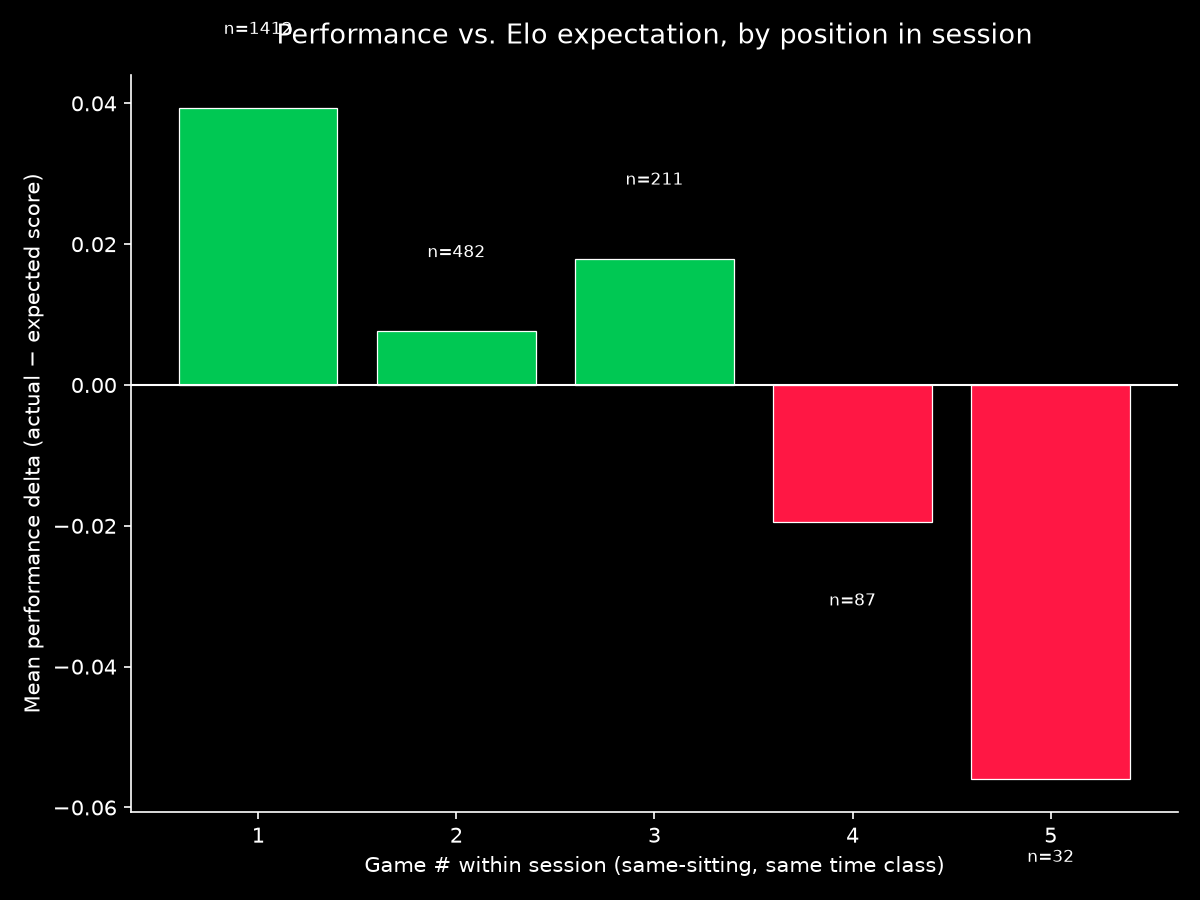
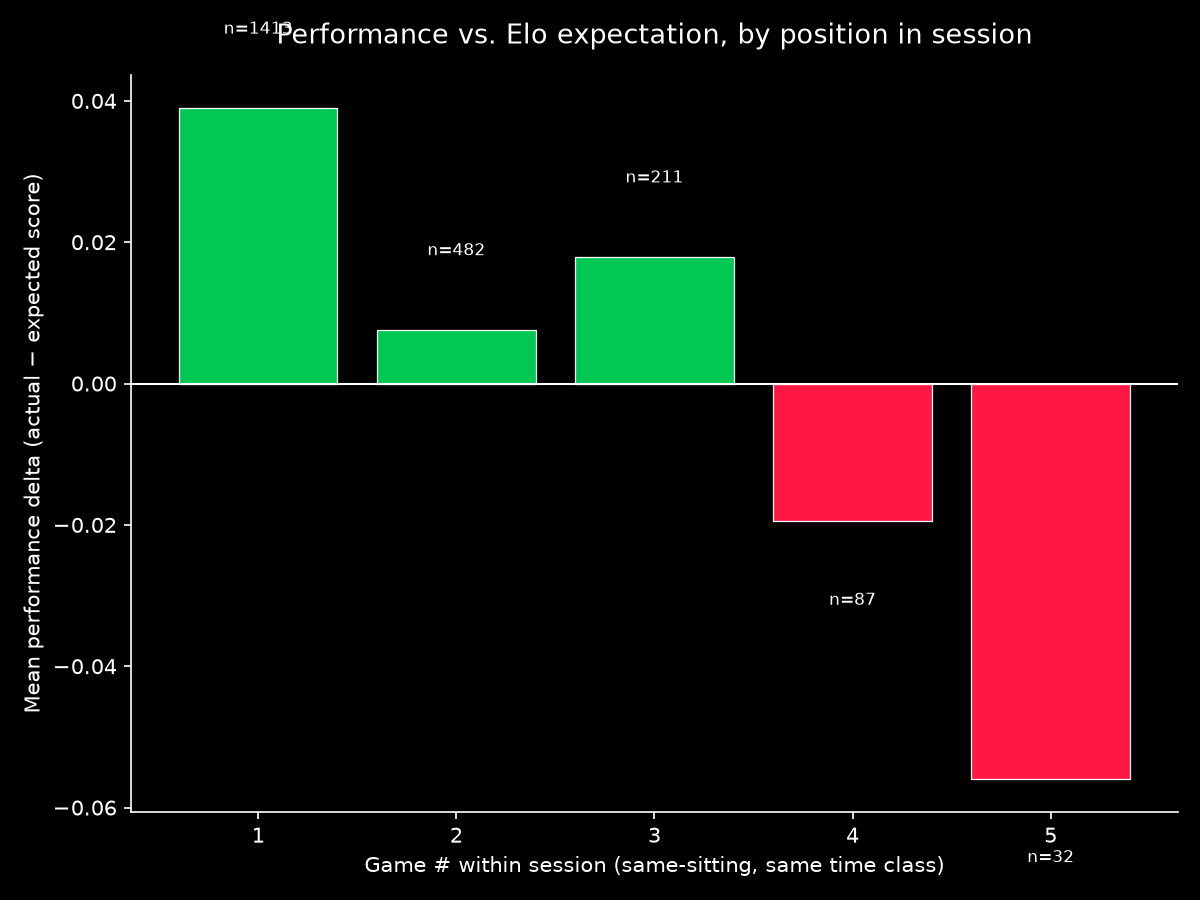
Auto-refresh chess stats 2026-09-01

diff --git a/README.md b/README.md
@@ -7,9 +7,9 @@ GitHub Actions.
 The API: https://api.chess.com/pub/player/{username}/games/archives gives you a list of monthly archive URLs, each returning full PGNs with clock times if you played with a clock.
 
 <!-- STATS:START -->
-### Last updated: 2026-08-31 13:46 UTC
+### Last updated: 2026-09-01 11:38 UTC
 
-**Dataset:** 2256 rated games, 2023-02-16 to 2026-08-31
+**Dataset:** 2257 rated games, 2023-02-16 to 2026-08-31
 
 **Statistically flagged countries this run** (Bonferroni-corrected within this run's test set —
 does *not* correct across repeated daily runs; see notes in `chess_analytics/stats.py`):
@@ -19,11 +19,11 @@ _No country crosses the Bonferroni-corrected significance threshold this run —
 **Session fatigue** (does performance decline the longer you play in one sitting? —
 sessions inferred from time gaps, see `chess_analytics/sessions.py`):
 
-Based on 1412 inferred sessions, 2256 games. Position-vs-performance correlation: ρ=-0.0292, p=0.1691 — not distinguishable from no trend. First game of session vs. later games: later games score worse by 0.034 on average, p=0.087 — not distinguishable from noise. _Both tests use α=0.05 uncorrected for this specific comparison — treat a single borderline p-value as a lead to watch over time, not a confirmed effect, same caveat as the country analysis._
+Based on 1413 inferred sessions, 2257 games. Position-vs-performance correlation: ρ=-0.029, p=0.1716 — not distinguishable from no trend. First game of session vs. later games: later games score worse by 0.034 on average, p=0.0902 — not distinguishable from noise. _Both tests use α=0.05 uncorrected for this specific comparison — treat a single borderline p-value as a lead to watch over time, not a confirmed effect, same caveat as the country analysis._
 
 **Peak rating** (see `chess_analytics/milestones.py` — this is a moving target, updates as new games are added):
 
-- **Blitz**: peak rating **890**, reached after 908 of 909 rated games, on 2026-08-30 — you've since come back down from it
+- **Blitz**: peak rating **890**, reached after 908 of 910 rated games, on 2026-08-30 — you've since come back down from it
 - **Rapid**: peak rating **986**, reached after 1171 of 1331 rated games, on 2026-04-16 — you've since come back down from it
 
 
